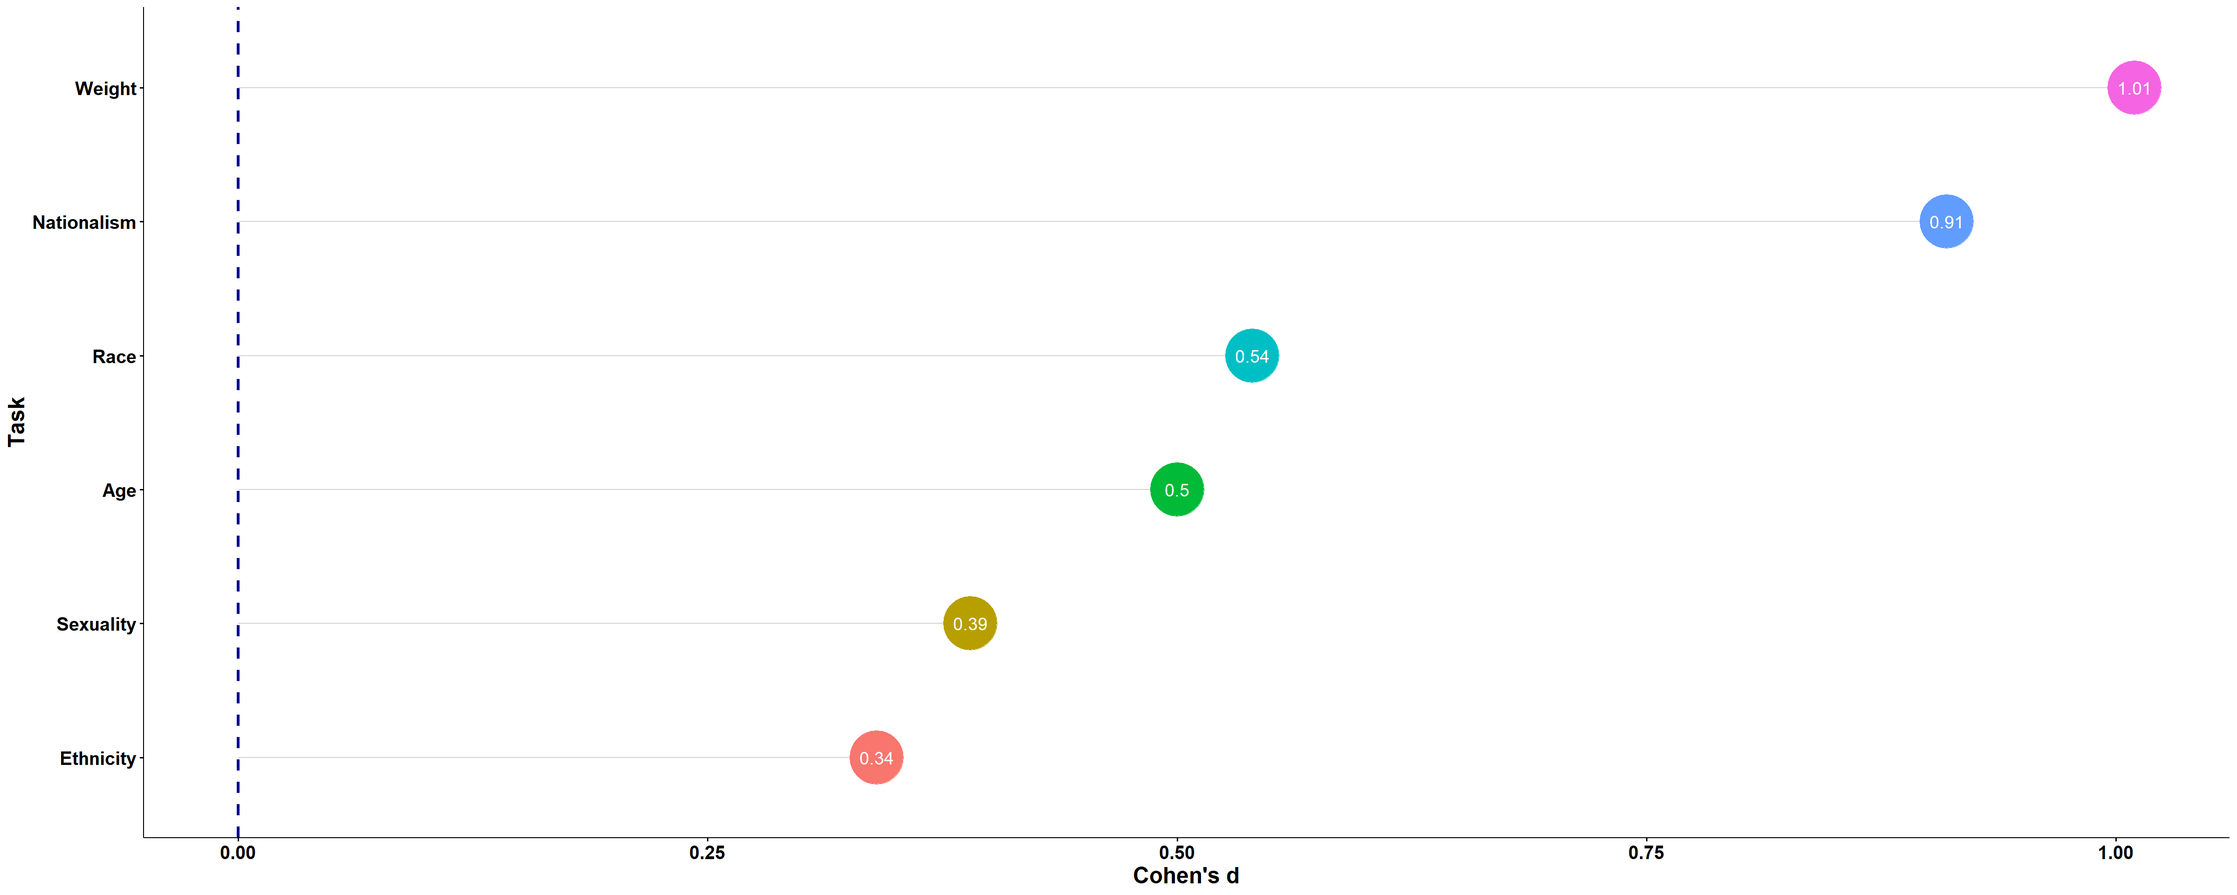
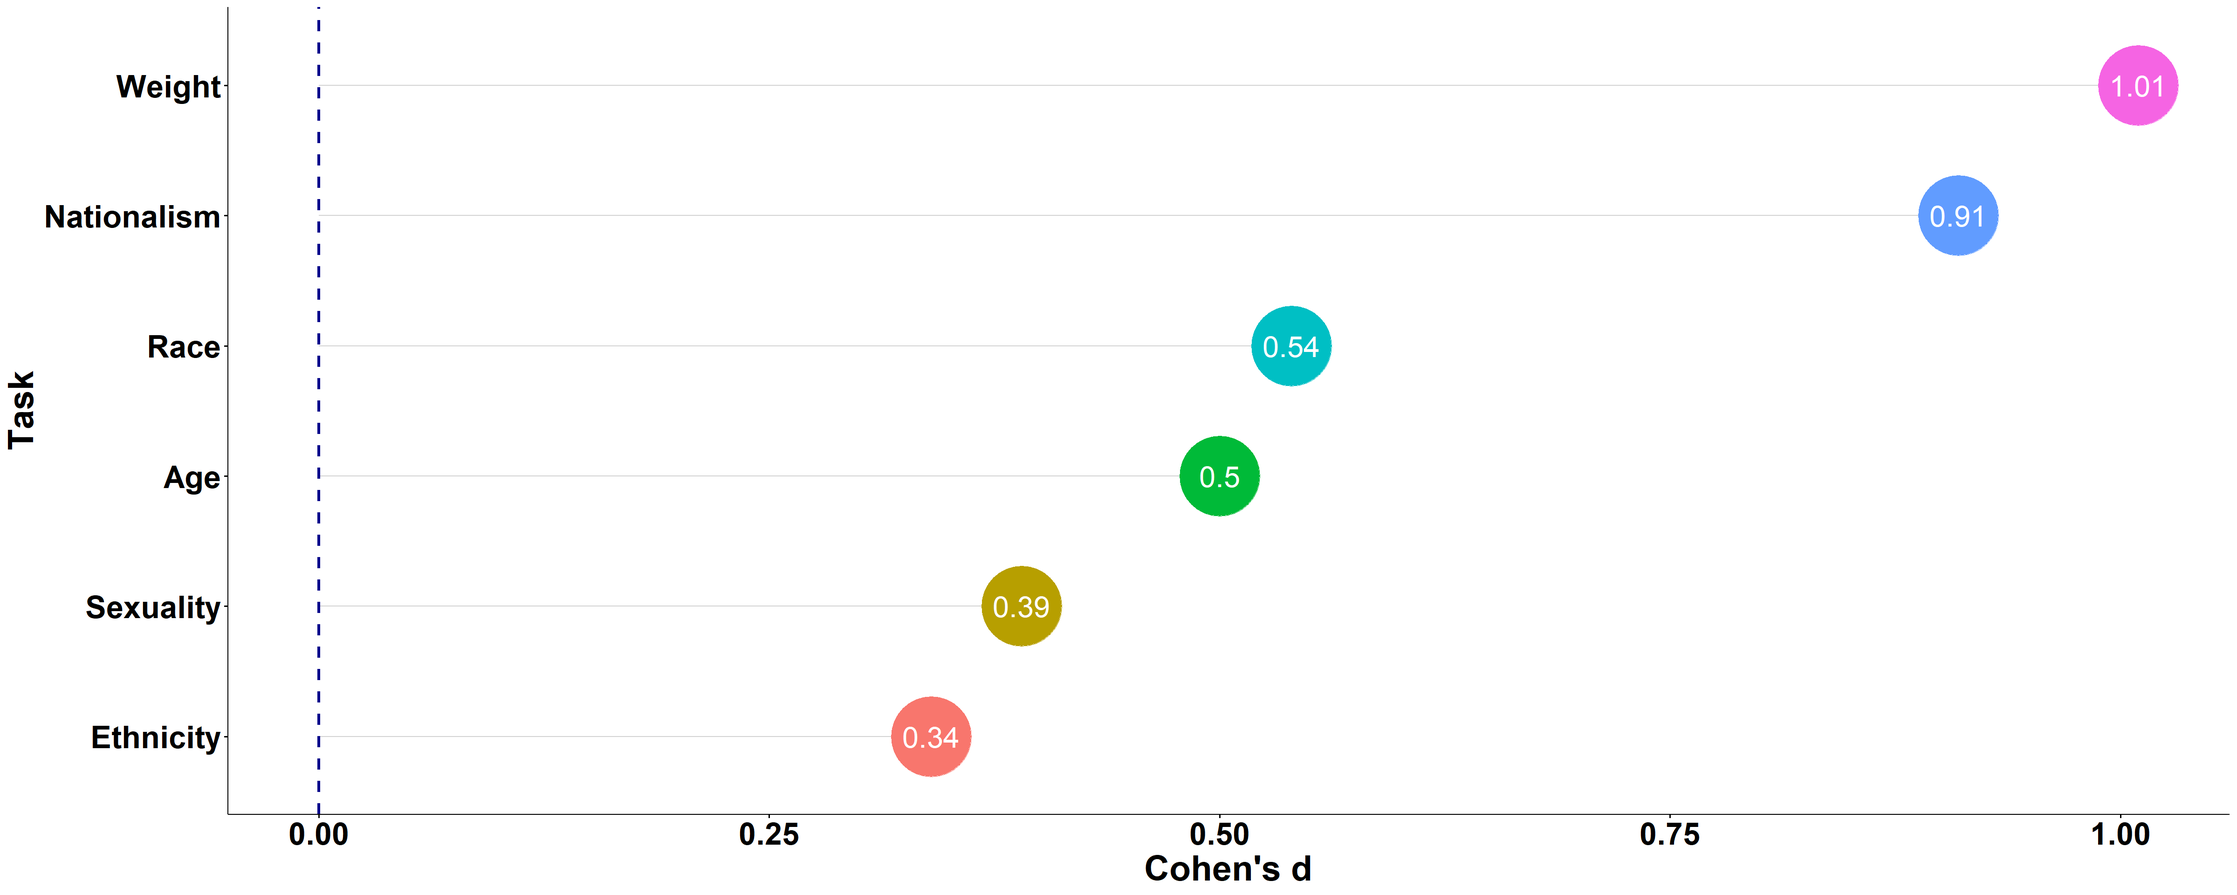
israel post: resize figs: attempt 3

diff --git a/content/post/2020-10-01-biases-in-israel.en.html b/content/post/2020-10-01-biases-in-israel.en.html
@@ -178,20 +178,21 @@ all_ds$Task &lt;- c(&quot;Age&quot;, &quot;Race&quot;, &quot;Weight&quot;, &quot
            add = &quot;segments&quot;,                             # Add segments from y = 0 to dots
            rotate = TRUE,                                # Rotate vertically
            #group = &quot;cyl&quot;,                                # Order by groups
-           dot.size = 20,                                 # Large dot size
+           dot.size = 30,                                 # Large dot size
            label = round(all_ds$es,3),                        # Add mpg values as dot labels
-           font.label = list(color = &quot;white&quot;, size = 15, 
+           font.label = list(color = &quot;white&quot;, size = 25, 
                              vjust = 0.5),               # Adjust label parameters
            ggtheme = theme_pubr()                        # ggplot2 theme
            )
+
 pp &lt;- pp + geom_hline(yintercept = 0, linetype = &quot;dashed&quot;, color = &quot;darkblue&quot;, 
     size = 1.2)
 
-pp &lt;- pp + font(&quot;title&quot;, size = 20, color = &quot;black&quot;, face = &quot;bold&quot;)+
-font(&quot;legend.text&quot;, size = 16, color = &quot;black&quot;, face = &quot;bold&quot;)+
-font(&quot;xlab&quot;, size = 18, color = &quot;black&quot;, face = &quot;bold&quot;)+
-font(&quot;ylab&quot;, size = 18, color = &quot;black&quot;, face = &quot;bold&quot;)+
-font(&quot;xy.text&quot;, size = 15, color = &quot;black&quot;, face = &quot;bold&quot;)
+pp &lt;- pp + font(&quot;title&quot;, size = 30, color = &quot;black&quot;, face = &quot;bold&quot;)+
+font(&quot;legend.text&quot;, size = 26, color = &quot;black&quot;, face = &quot;bold&quot;)+
+font(&quot;xlab&quot;, size = 28, color = &quot;black&quot;, face = &quot;bold&quot;)+
+font(&quot;ylab&quot;, size = 28, color = &quot;black&quot;, face = &quot;bold&quot;)+
+font(&quot;xy.text&quot;, size = 25, color = &quot;black&quot;, face = &quot;bold&quot;)
 pp &lt;- pp +theme(legend.position=&quot;none&quot;)
 
 pp</code></pre>
@@ -239,20 +240,21 @@ all_ds$Task &lt;- c(&quot;Age&quot;, &quot;Race&quot;, &quot;Skin&quot;, &quot;W
            add = &quot;segments&quot;,                             # Add segments from y = 0 to dots
            rotate = TRUE,                                # Rotate vertically
            #group = &quot;cyl&quot;,                                # Order by groups
-           dot.size = 20,                                 # Large dot size
+           dot.size = 30,                                 # Large dot size
            label = round(all_ds$es,3),                        # Add mpg values as dot labels
-           font.label = list(color = &quot;white&quot;, size = 15, 
+           font.label = list(color = &quot;white&quot;, size = 25, 
                              vjust = 0.5),               # Adjust label parameters
            ggtheme = theme_pubr()                        # ggplot2 theme
            )
+
 pp &lt;- pp + geom_hline(yintercept = 0, linetype = &quot;dashed&quot;, color = &quot;darkblue&quot;, 
     size = 1.2)
 
-pp &lt;- pp + font(&quot;title&quot;, size = 20, color = &quot;black&quot;, face = &quot;bold&quot;)+
-font(&quot;legend.text&quot;, size = 16, color = &quot;black&quot;, face = &quot;bold&quot;)+
-font(&quot;xlab&quot;, size = 18, color = &quot;black&quot;, face = &quot;bold&quot;)+
-font(&quot;ylab&quot;, size = 18, color = &quot;black&quot;, face = &quot;bold&quot;)+
-font(&quot;xy.text&quot;, size = 15, color = &quot;black&quot;, face = &quot;bold&quot;)
+pp &lt;- pp + font(&quot;title&quot;, size = 30, color = &quot;black&quot;, face = &quot;bold&quot;)+
+font(&quot;legend.text&quot;, size = 26, color = &quot;black&quot;, face = &quot;bold&quot;)+
+font(&quot;xlab&quot;, size = 28, color = &quot;black&quot;, face = &quot;bold&quot;)+
+font(&quot;ylab&quot;, size = 28, color = &quot;black&quot;, face = &quot;bold&quot;)+
+font(&quot;xy.text&quot;, size = 25, color = &quot;black&quot;, face = &quot;bold&quot;)
 pp &lt;- pp +theme(legend.position=&quot;none&quot;)
 
 pp</code></pre>
@@ -381,18 +383,18 @@ thermo_df &lt;- df %&gt;% mutate(params = purrr::map(.x = data, .f = ~get_es_thr
 
 pp &lt;- ggdotchart(iat_df, x = &quot;Year&quot;, y = &quot;Cohens_d&quot;, color = &quot;Task&quot;, 
     ylab = &quot;Cohen&#39;s d&quot;, sorting = &quot;none&quot;, order = NULL, combine = F, 
-    add = &quot;segments&quot;, facet = &quot;Task&quot;, rotate = F, dot.size = 15, 
+    add = &quot;segments&quot;, facet = &quot;Task&quot;, rotate = F, dot.size = 30, 
     label = round(iat_df$Cohens_d, 3), font.label = list(color = &quot;white&quot;, 
-        size = 14, vjust = 0.5), ggtheme = theme_pubr())
+        size = 25, vjust = 0.5), ggtheme = theme_pubr())
 
 pp &lt;- pp + geom_hline(yintercept = 0, linetype = &quot;dashed&quot;, color = &quot;darkblue&quot;, 
     size = 1.2) + theme(axis.text.x = element_text(angle = 22))
 
-pp &lt;- pp + font(&quot;title&quot;, size = 20, color = &quot;black&quot;, face = &quot;bold&quot;) + 
-    font(&quot;legend.text&quot;, size = 16, color = &quot;black&quot;, face = &quot;bold&quot;) + 
-    font(&quot;xlab&quot;, size = 18, color = &quot;black&quot;, face = &quot;bold&quot;) + 
-    font(&quot;ylab&quot;, size = 18, color = &quot;black&quot;, face = &quot;bold&quot;) + 
-    font(&quot;xy.text&quot;, size = 15, color = &quot;black&quot;, face = &quot;bold&quot;)
+pp &lt;- pp + font(&quot;title&quot;, size = 30, color = &quot;black&quot;, face = &quot;bold&quot;) + 
+    font(&quot;legend.text&quot;, size = 26, color = &quot;black&quot;, face = &quot;bold&quot;) + 
+    font(&quot;xlab&quot;, size = 28, color = &quot;black&quot;, face = &quot;bold&quot;) + 
+    font(&quot;ylab&quot;, size = 28, color = &quot;black&quot;, face = &quot;bold&quot;) + 
+    font(&quot;xy.text&quot;, size = 25, color = &quot;black&quot;, face = &quot;bold&quot;)
 pp &lt;- pp + theme(legend.position = &quot;none&quot;)
 
 pp</code></pre>
@@ -405,18 +407,18 @@ pp</code></pre>
 
 pp &lt;- ggdotchart(att_df, x = &quot;Year&quot;, y = &quot;Cohens_d&quot;, color = &quot;Task&quot;, 
     ylab = &quot;Cohen&#39;s d&quot;, sorting = &quot;none&quot;, order = NULL, combine = F, 
-    add = &quot;segments&quot;, facet = &quot;Task&quot;, rotate = F, dot.size = 15, 
+    add = &quot;segments&quot;, facet = &quot;Task&quot;, rotate = F, dot.size = 30, 
     label = round(att_df$Cohens_d, 3), font.label = list(color = &quot;white&quot;, 
-        size = 14, vjust = 0.5), ggtheme = theme_pubr())
+        size = 25, vjust = 0.5), ggtheme = theme_pubr())
 
 pp &lt;- pp + geom_hline(yintercept = 0, linetype = &quot;dashed&quot;, color = &quot;darkblue&quot;, 
     size = 1.2) + theme(axis.text.x = element_text(angle = 22))
 
-pp &lt;- pp + font(&quot;title&quot;, size = 20, color = &quot;black&quot;, face = &quot;bold&quot;) + 
-    font(&quot;legend.text&quot;, size = 16, color = &quot;black&quot;, face = &quot;bold&quot;) + 
-    font(&quot;xlab&quot;, size = 18, color = &quot;black&quot;, face = &quot;bold&quot;) + 
-    font(&quot;ylab&quot;, size = 18, color = &quot;black&quot;, face = &quot;bold&quot;) + 
-    font(&quot;xy.text&quot;, size = 15, color = &quot;black&quot;, face = &quot;bold&quot;)
+pp &lt;- pp + font(&quot;title&quot;, size = 30, color = &quot;black&quot;, face = &quot;bold&quot;) + 
+    font(&quot;legend.text&quot;, size = 26, color = &quot;black&quot;, face = &quot;bold&quot;) + 
+    font(&quot;xlab&quot;, size = 28, color = &quot;black&quot;, face = &quot;bold&quot;) + 
+    font(&quot;ylab&quot;, size = 28, color = &quot;black&quot;, face = &quot;bold&quot;) + 
+    font(&quot;xy.text&quot;, size = 25, color = &quot;black&quot;, face = &quot;bold&quot;)
 pp &lt;- pp + theme(legend.position = &quot;none&quot;)
 
 pp</code></pre>
@@ -430,18 +432,18 @@ pp</code></pre>
 
 pp &lt;- ggdotchart(thermo_df, x = &quot;Year&quot;, y = &quot;Cohens_d&quot;, color = &quot;Task&quot;, 
     ylab = &quot;Cohen&#39;s d&quot;, sorting = &quot;none&quot;, order = NULL, combine = F, 
-    add = &quot;segments&quot;, facet = &quot;Task&quot;, rotate = F, dot.size = 15, 
+    add = &quot;segments&quot;, facet = &quot;Task&quot;, rotate = F, dot.size = 30, 
     label = round(thermo_df$Cohens_d, 3), font.label = list(color = &quot;white&quot;, 
-        size = 14, vjust = 0.5), ggtheme = theme_pubr())
+        size = 25, vjust = 0.5), ggtheme = theme_pubr())
 
 pp &lt;- pp + geom_hline(yintercept = 0, linetype = &quot;dashed&quot;, color = &quot;darkblue&quot;, 
     size = 1.2) + theme(axis.text.x = element_text(angle = 22))
 
-pp &lt;- pp + font(&quot;title&quot;, size = 20, color = &quot;black&quot;, face = &quot;bold&quot;) + 
-    font(&quot;legend.text&quot;, size = 16, color = &quot;black&quot;, face = &quot;bold&quot;) + 
-    font(&quot;xlab&quot;, size = 18, color = &quot;black&quot;, face = &quot;bold&quot;) + 
-    font(&quot;ylab&quot;, size = 18, color = &quot;black&quot;, face = &quot;bold&quot;) + 
-    font(&quot;xy.text&quot;, size = 15, color = &quot;black&quot;, face = &quot;bold&quot;)
+pp &lt;- pp + font(&quot;title&quot;, size = 30, color = &quot;black&quot;, face = &quot;bold&quot;) + 
+    font(&quot;legend.text&quot;, size = 26, color = &quot;black&quot;, face = &quot;bold&quot;) + 
+    font(&quot;xlab&quot;, size = 28, color = &quot;black&quot;, face = &quot;bold&quot;) + 
+    font(&quot;ylab&quot;, size = 28, color = &quot;black&quot;, face = &quot;bold&quot;) + 
+    font(&quot;xy.text&quot;, size = 25, color = &quot;black&quot;, face = &quot;bold&quot;)
 pp &lt;- pp + theme(legend.position = &quot;none&quot;)
 
 pp</code></pre>
@@ -560,11 +562,11 @@ pp &lt;- ggviolin(ethnic1, x = &quot;ethnic.c&quot;, y = c(&quot;IAT&quot;), com
 pp &lt;- pp + geom_hline(yintercept = 0, linetype = &quot;dashed&quot;, color = &quot;darkblue&quot;, 
     size = 1.2)
 
-pp &lt;- pp + font(&quot;title&quot;, size = 14, color = &quot;black&quot;, face = &quot;bold&quot;) + 
-    font(&quot;legend.text&quot;, size = 13, color = &quot;black&quot;, face = &quot;bold&quot;) + 
-    font(&quot;xlab&quot;, size = 14, color = &quot;black&quot;, face = &quot;bold&quot;) + 
-    font(&quot;ylab&quot;, size = 14, color = &quot;black&quot;, face = &quot;bold&quot;) + 
-    font(&quot;xy.text&quot;, size = 10, color = &quot;black&quot;)
+pp &lt;- pp + font(&quot;title&quot;, size = 24, color = &quot;black&quot;, face = &quot;bold&quot;) + 
+    font(&quot;legend.text&quot;, size = 23, color = &quot;black&quot;, face = &quot;bold&quot;) + 
+    font(&quot;xlab&quot;, size = 24, color = &quot;black&quot;, face = &quot;bold&quot;) + 
+    font(&quot;ylab&quot;, size = 24, color = &quot;black&quot;, face = &quot;bold&quot;) + 
+    font(&quot;xy.text&quot;, size = 20, color = &quot;black&quot;)
 pp &lt;- pp + theme(legend.position = &quot;none&quot;)
 pp</code></pre>
 <p><img src="/post/2020-10-01-biases-in-israel.en_files/figure-html/unnamed-chunk-14-1.png" width="2400" /></p>

diff --git a/public/post/biases-in-israel/index.html b/public/post/biases-in-israel/index.html
@@ -415,20 +415,21 @@ all_ds$Task &lt;- c(&quot;Age&quot;, &quot;Race&quot;, &quot;Weight&quot;, &quot
            add = &quot;segments&quot;,                             # Add segments from y = 0 to dots
            rotate = TRUE,                                # Rotate vertically
            #group = &quot;cyl&quot;,                                # Order by groups
-           dot.size = 20,                                 # Large dot size
+           dot.size = 30,                                 # Large dot size
            label = round(all_ds$es,3),                        # Add mpg values as dot labels
-           font.label = list(color = &quot;white&quot;, size = 15, 
+           font.label = list(color = &quot;white&quot;, size = 25, 
                              vjust = 0.5),               # Adjust label parameters
            ggtheme = theme_pubr()                        # ggplot2 theme
            )
+
 pp &lt;- pp + geom_hline(yintercept = 0, linetype = &quot;dashed&quot;, color = &quot;darkblue&quot;, 
     size = 1.2)
 
-pp &lt;- pp + font(&quot;title&quot;, size = 20, color = &quot;black&quot;, face = &quot;bold&quot;)+
-font(&quot;legend.text&quot;, size = 16, color = &quot;black&quot;, face = &quot;bold&quot;)+
-font(&quot;xlab&quot;, size = 18, color = &quot;black&quot;, face = &quot;bold&quot;)+
-font(&quot;ylab&quot;, size = 18, color = &quot;black&quot;, face = &quot;bold&quot;)+
-font(&quot;xy.text&quot;, size = 15, color = &quot;black&quot;, face = &quot;bold&quot;)
+pp &lt;- pp + font(&quot;title&quot;, size = 30, color = &quot;black&quot;, face = &quot;bold&quot;)+
+font(&quot;legend.text&quot;, size = 26, color = &quot;black&quot;, face = &quot;bold&quot;)+
+font(&quot;xlab&quot;, size = 28, color = &quot;black&quot;, face = &quot;bold&quot;)+
+font(&quot;ylab&quot;, size = 28, color = &quot;black&quot;, face = &quot;bold&quot;)+
+font(&quot;xy.text&quot;, size = 25, color = &quot;black&quot;, face = &quot;bold&quot;)
 pp &lt;- pp +theme(legend.position=&quot;none&quot;)
 
 pp</code></pre>
@@ -476,20 +477,21 @@ all_ds$Task &lt;- c(&quot;Age&quot;, &quot;Race&quot;, &quot;Skin&quot;, &quot;W
            add = &quot;segments&quot;,                             # Add segments from y = 0 to dots
            rotate = TRUE,                                # Rotate vertically
            #group = &quot;cyl&quot;,                                # Order by groups
-           dot.size = 20,                                 # Large dot size
+           dot.size = 30,                                 # Large dot size
            label = round(all_ds$es,3),                        # Add mpg values as dot labels
-           font.label = list(color = &quot;white&quot;, size = 15, 
+           font.label = list(color = &quot;white&quot;, size = 25, 
                              vjust = 0.5),               # Adjust label parameters
            ggtheme = theme_pubr()                        # ggplot2 theme
            )
+
 pp &lt;- pp + geom_hline(yintercept = 0, linetype = &quot;dashed&quot;, color = &quot;darkblue&quot;, 
     size = 1.2)
 
-pp &lt;- pp + font(&quot;title&quot;, size = 20, color = &quot;black&quot;, face = &quot;bold&quot;)+
-font(&quot;legend.text&quot;, size = 16, color = &quot;black&quot;, face = &quot;bold&quot;)+
-font(&quot;xlab&quot;, size = 18, color = &quot;black&quot;, face = &quot;bold&quot;)+
-font(&quot;ylab&quot;, size = 18, color = &quot;black&quot;, face = &quot;bold&quot;)+
-font(&quot;xy.text&quot;, size = 15, color = &quot;black&quot;, face = &quot;bold&quot;)
+pp &lt;- pp + font(&quot;title&quot;, size = 30, color = &quot;black&quot;, face = &quot;bold&quot;)+
+font(&quot;legend.text&quot;, size = 26, color = &quot;black&quot;, face = &quot;bold&quot;)+
+font(&quot;xlab&quot;, size = 28, color = &quot;black&quot;, face = &quot;bold&quot;)+
+font(&quot;ylab&quot;, size = 28, color = &quot;black&quot;, face = &quot;bold&quot;)+
+font(&quot;xy.text&quot;, size = 25, color = &quot;black&quot;, face = &quot;bold&quot;)
 pp &lt;- pp +theme(legend.position=&quot;none&quot;)
 
 pp</code></pre>
@@ -618,18 +620,18 @@ thermo_df &lt;- df %&gt;% mutate(params = purrr::map(.x = data, .f = ~get_es_thr
 
 pp &lt;- ggdotchart(iat_df, x = &quot;Year&quot;, y = &quot;Cohens_d&quot;, color = &quot;Task&quot;, 
     ylab = &quot;Cohen&#39;s d&quot;, sorting = &quot;none&quot;, order = NULL, combine = F, 
-    add = &quot;segments&quot;, facet = &quot;Task&quot;, rotate = F, dot.size = 15, 
+    add = &quot;segments&quot;, facet = &quot;Task&quot;, rotate = F, dot.size = 30, 
     label = round(iat_df$Cohens_d, 3), font.label = list(color = &quot;white&quot;, 
-        size = 14, vjust = 0.5), ggtheme = theme_pubr())
+        size = 25, vjust = 0.5), ggtheme = theme_pubr())
 
 pp &lt;- pp + geom_hline(yintercept = 0, linetype = &quot;dashed&quot;, color = &quot;darkblue&quot;, 
     size = 1.2) + theme(axis.text.x = element_text(angle = 22))
 
-pp &lt;- pp + font(&quot;title&quot;, size = 20, color = &quot;black&quot;, face = &quot;bold&quot;) + 
-    font(&quot;legend.text&quot;, size = 16, color = &quot;black&quot;, face = &quot;bold&quot;) + 
-    font(&quot;xlab&quot;, size = 18, color = &quot;black&quot;, face = &quot;bold&quot;) + 
-    font(&quot;ylab&quot;, size = 18, color = &quot;black&quot;, face = &quot;bold&quot;) + 
-    font(&quot;xy.text&quot;, size = 15, color = &quot;black&quot;, face = &quot;bold&quot;)
+pp &lt;- pp + font(&quot;title&quot;, size = 30, color = &quot;black&quot;, face = &quot;bold&quot;) + 
+    font(&quot;legend.text&quot;, size = 26, color = &quot;black&quot;, face = &quot;bold&quot;) + 
+    font(&quot;xlab&quot;, size = 28, color = &quot;black&quot;, face = &quot;bold&quot;) + 
+    font(&quot;ylab&quot;, size = 28, color = &quot;black&quot;, face = &quot;bold&quot;) + 
+    font(&quot;xy.text&quot;, size = 25, color = &quot;black&quot;, face = &quot;bold&quot;)
 pp &lt;- pp + theme(legend.position = &quot;none&quot;)
 
 pp</code></pre>
@@ -642,18 +644,18 @@ pp</code></pre>
 
 pp &lt;- ggdotchart(att_df, x = &quot;Year&quot;, y = &quot;Cohens_d&quot;, color = &quot;Task&quot;, 
     ylab = &quot;Cohen&#39;s d&quot;, sorting = &quot;none&quot;, order = NULL, combine = F, 
-    add = &quot;segments&quot;, facet = &quot;Task&quot;, rotate = F, dot.size = 15, 
+    add = &quot;segments&quot;, facet = &quot;Task&quot;, rotate = F, dot.size = 30, 
     label = round(att_df$Cohens_d, 3), font.label = list(color = &quot;white&quot;, 
-        size = 14, vjust = 0.5), ggtheme = theme_pubr())
+        size = 25, vjust = 0.5), ggtheme = theme_pubr())
 
 pp &lt;- pp + geom_hline(yintercept = 0, linetype = &quot;dashed&quot;, color = &quot;darkblue&quot;, 
     size = 1.2) + theme(axis.text.x = element_text(angle = 22))
 
-pp &lt;- pp + font(&quot;title&quot;, size = 20, color = &quot;black&quot;, face = &quot;bold&quot;) + 
-    font(&quot;legend.text&quot;, size = 16, color = &quot;black&quot;, face = &quot;bold&quot;) + 
-    font(&quot;xlab&quot;, size = 18, color = &quot;black&quot;, face = &quot;bold&quot;) + 
-    font(&quot;ylab&quot;, size = 18, color = &quot;black&quot;, face = &quot;bold&quot;) + 
-    font(&quot;xy.text&quot;, size = 15, color = &quot;black&quot;, face = &quot;bold&quot;)
+pp &lt;- pp + font(&quot;title&quot;, size = 30, color = &quot;black&quot;, face = &quot;bold&quot;) + 
+    font(&quot;legend.text&quot;, size = 26, color = &quot;black&quot;, face = &quot;bold&quot;) + 
+    font(&quot;xlab&quot;, size = 28, color = &quot;black&quot;, face = &quot;bold&quot;) + 
+    font(&quot;ylab&quot;, size = 28, color = &quot;black&quot;, face = &quot;bold&quot;) + 
+    font(&quot;xy.text&quot;, size = 25, color = &quot;black&quot;, face = &quot;bold&quot;)
 pp &lt;- pp + theme(legend.position = &quot;none&quot;)
 
 pp</code></pre>
@@ -667,18 +669,18 @@ pp</code></pre>
 
 pp &lt;- ggdotchart(thermo_df, x = &quot;Year&quot;, y = &quot;Cohens_d&quot;, color = &quot;Task&quot;, 
     ylab = &quot;Cohen&#39;s d&quot;, sorting = &quot;none&quot;, order = NULL, combine = F, 
-    add = &quot;segments&quot;, facet = &quot;Task&quot;, rotate = F, dot.size = 15, 
+    add = &quot;segments&quot;, facet = &quot;Task&quot;, rotate = F, dot.size = 30, 
     label = round(thermo_df$Cohens_d, 3), font.label = list(color = &quot;white&quot;, 
-        size = 14, vjust = 0.5), ggtheme = theme_pubr())
+        size = 25, vjust = 0.5), ggtheme = theme_pubr())
 
 pp &lt;- pp + geom_hline(yintercept = 0, linetype = &quot;dashed&quot;, color = &quot;darkblue&quot;, 
     size = 1.2) + theme(axis.text.x = element_text(angle = 22))
 
-pp &lt;- pp + font(&quot;title&quot;, size = 20, color = &quot;black&quot;, face = &quot;bold&quot;) + 
-    font(&quot;legend.text&quot;, size = 16, color = &quot;black&quot;, face = &quot;bold&quot;) + 
-    font(&quot;xlab&quot;, size = 18, color = &quot;black&quot;, face = &quot;bold&quot;) + 
-    font(&quot;ylab&quot;, size = 18, color = &quot;black&quot;, face = &quot;bold&quot;) + 
-    font(&quot;xy.text&quot;, size = 15, color = &quot;black&quot;, face = &quot;bold&quot;)
+pp &lt;- pp + font(&quot;title&quot;, size = 30, color = &quot;black&quot;, face = &quot;bold&quot;) + 
+    font(&quot;legend.text&quot;, size = 26, color = &quot;black&quot;, face = &quot;bold&quot;) + 
+    font(&quot;xlab&quot;, size = 28, color = &quot;black&quot;, face = &quot;bold&quot;) + 
+    font(&quot;ylab&quot;, size = 28, color = &quot;black&quot;, face = &quot;bold&quot;) + 
+    font(&quot;xy.text&quot;, size = 25, color = &quot;black&quot;, face = &quot;bold&quot;)
 pp &lt;- pp + theme(legend.position = &quot;none&quot;)
 
 pp</code></pre>
@@ -797,11 +799,11 @@ pp &lt;- ggviolin(ethnic1, x = &quot;ethnic.c&quot;, y = c(&quot;IAT&quot;), com
 pp &lt;- pp + geom_hline(yintercept = 0, linetype = &quot;dashed&quot;, color = &quot;darkblue&quot;, 
     size = 1.2)
 
-pp &lt;- pp + font(&quot;title&quot;, size = 14, color = &quot;black&quot;, face = &quot;bold&quot;) + 
-    font(&quot;legend.text&quot;, size = 13, color = &quot;black&quot;, face = &quot;bold&quot;) + 
-    font(&quot;xlab&quot;, size = 14, color = &quot;black&quot;, face = &quot;bold&quot;) + 
-    font(&quot;ylab&quot;, size = 14, color = &quot;black&quot;, face = &quot;bold&quot;) + 
-    font(&quot;xy.text&quot;, size = 10, color = &quot;black&quot;)
+pp &lt;- pp + font(&quot;title&quot;, size = 24, color = &quot;black&quot;, face = &quot;bold&quot;) + 
+    font(&quot;legend.text&quot;, size = 23, color = &quot;black&quot;, face = &quot;bold&quot;) + 
+    font(&quot;xlab&quot;, size = 24, color = &quot;black&quot;, face = &quot;bold&quot;) + 
+    font(&quot;ylab&quot;, size = 24, color = &quot;black&quot;, face = &quot;bold&quot;) + 
+    font(&quot;xy.text&quot;, size = 20, color = &quot;black&quot;)
 pp &lt;- pp + theme(legend.position = &quot;none&quot;)
 pp</code></pre>
 <p><img src="/post/2020-10-01-biases-in-israel.en_files/figure-html/unnamed-chunk-14-1.png" width="2400" /></p>
